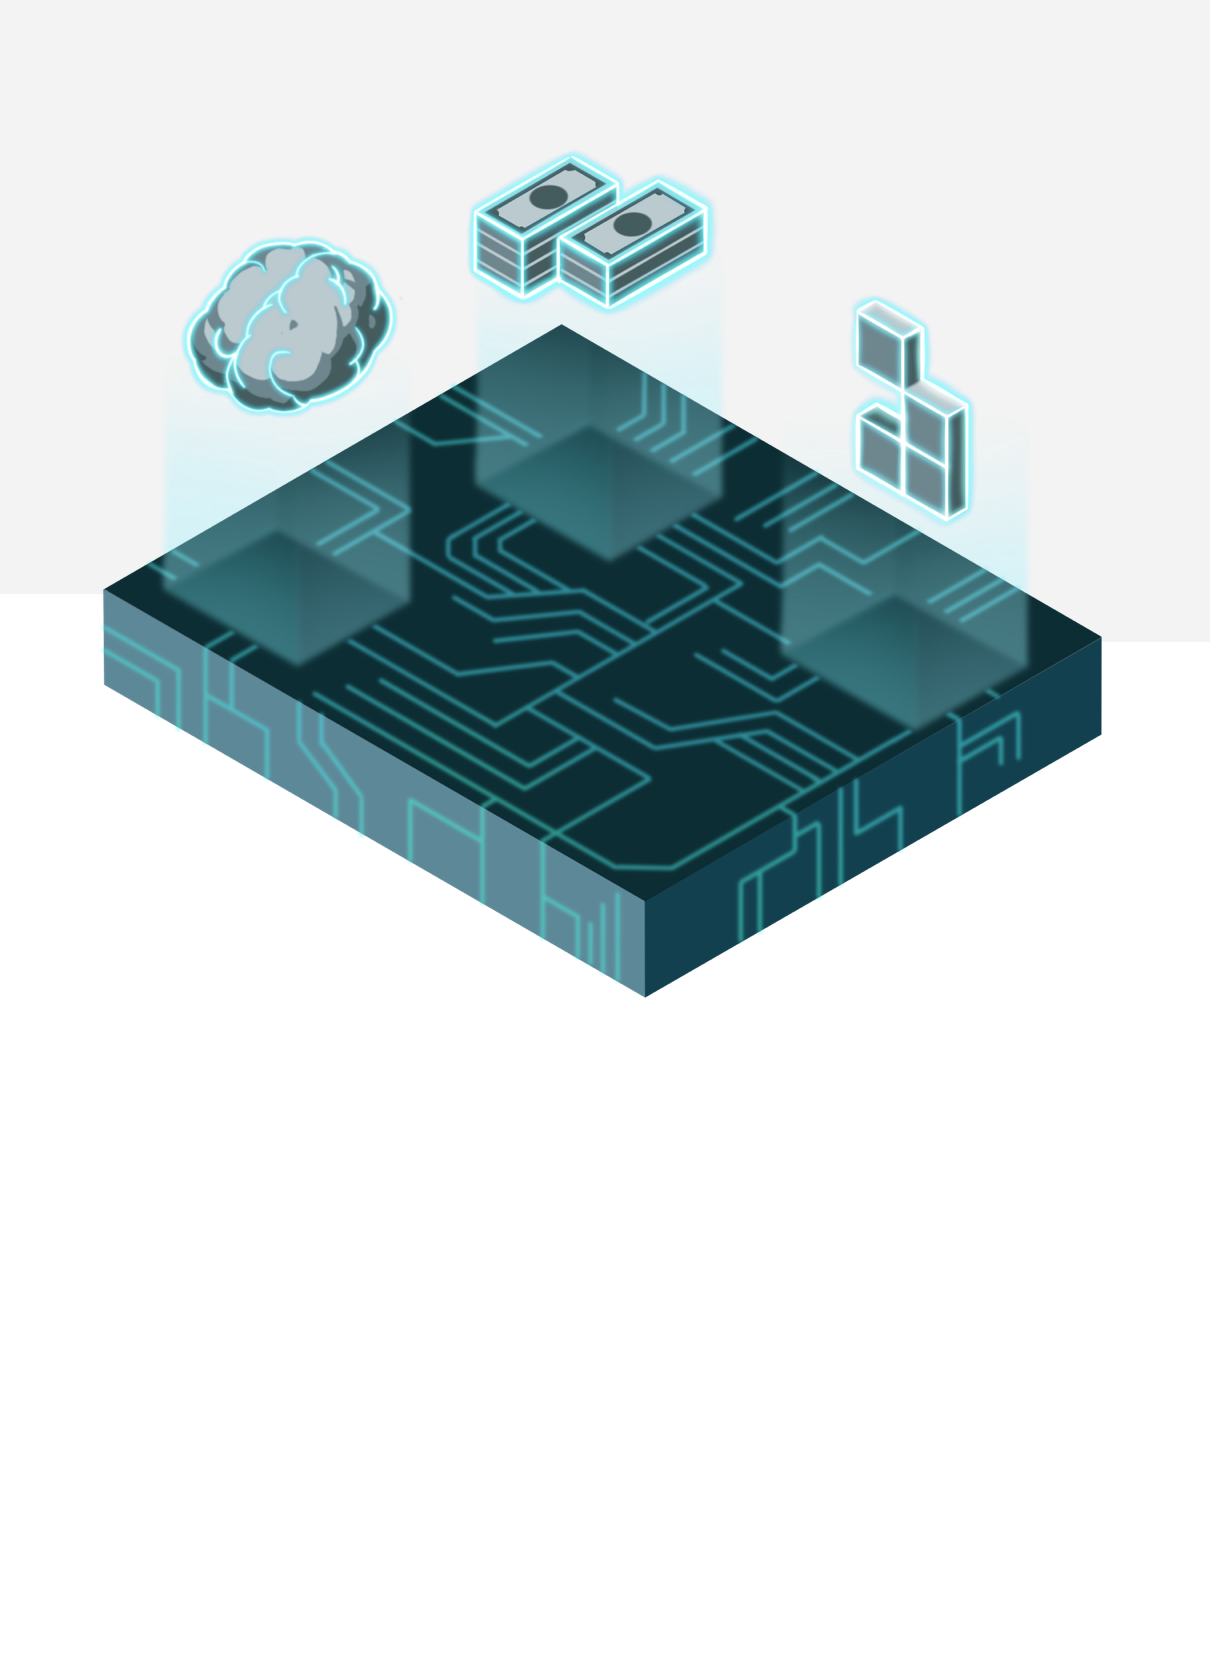
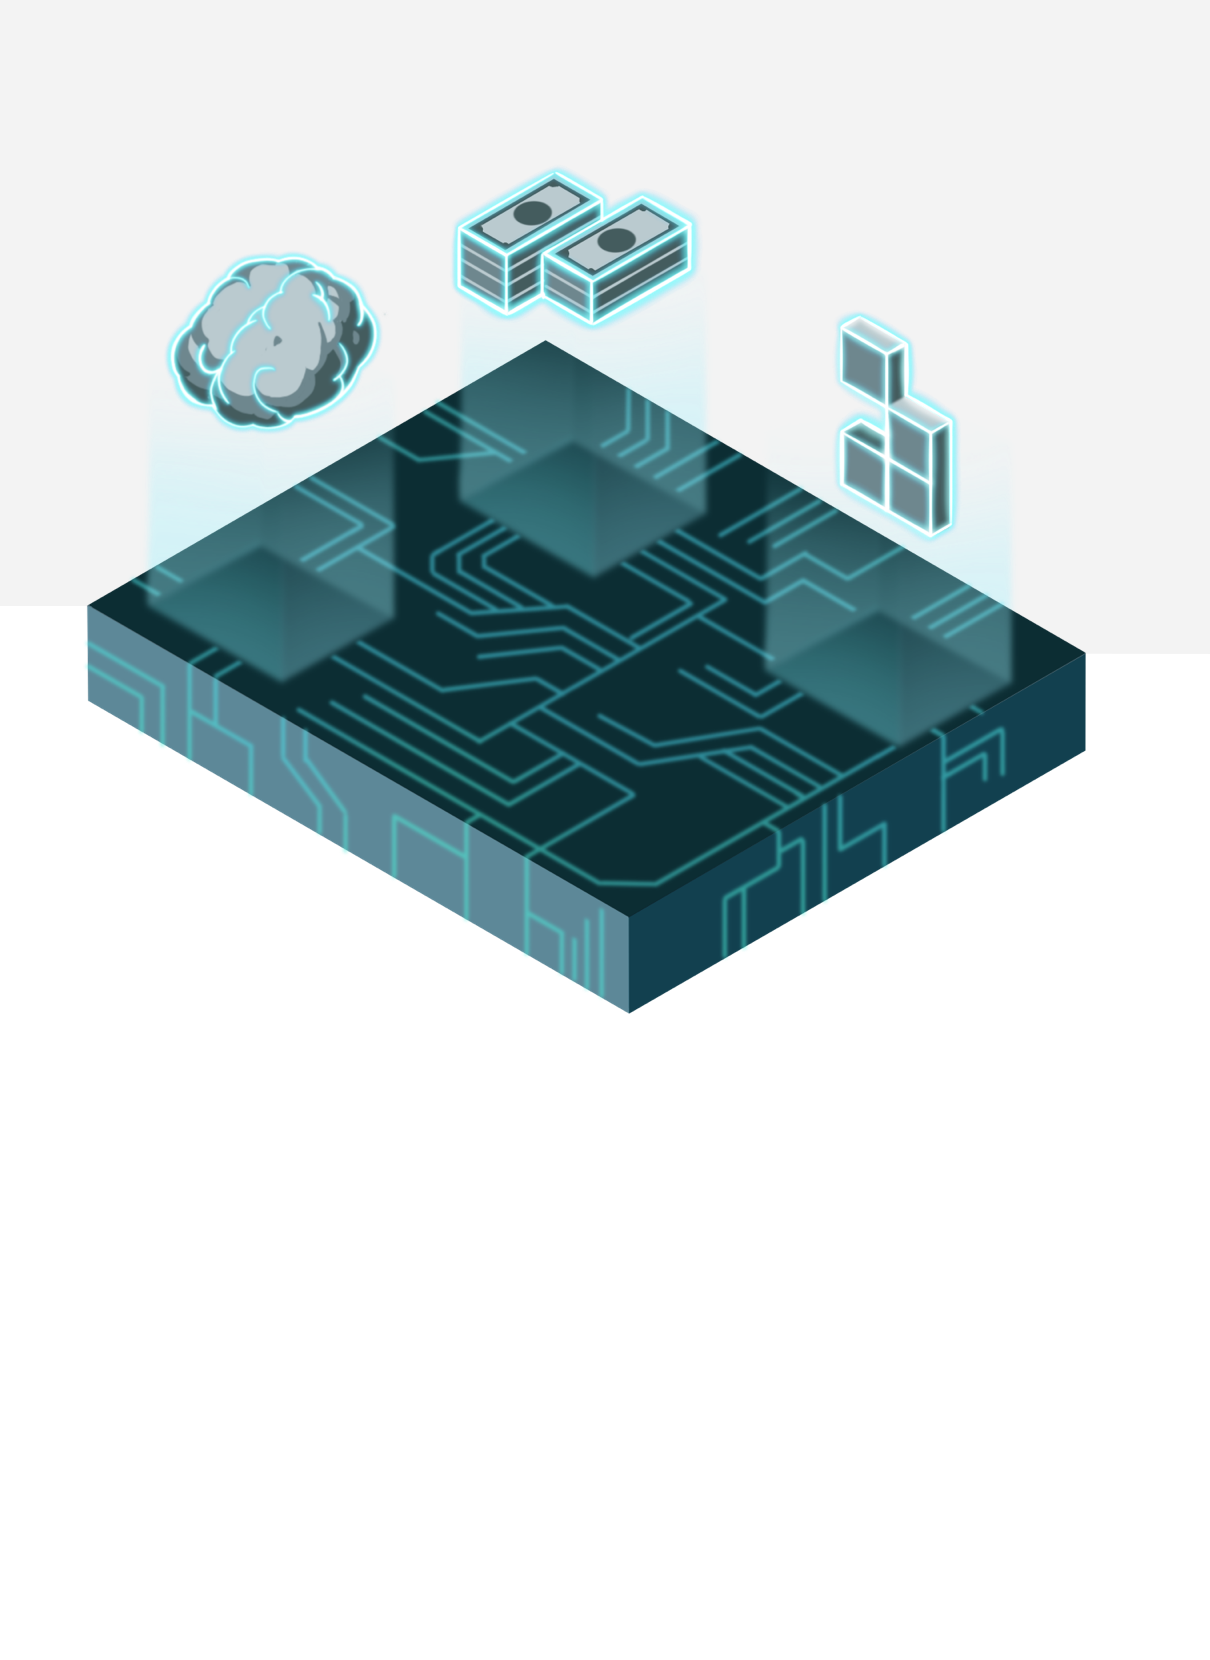
wiiiip

Changed region(s): [[0.0612, 0.0922, 0.9174, 0.6145]]

diff --git a/index.html b/index.html
@@ -58,7 +58,7 @@
       <span class="span-header bg1-2">
         Permitimos que qualquer empresa opere como subadquirente para suas redes, gerando <b>experiências financeiras customizadas</b> em toda sua cadeia.
       </span>
-			<div style="margin-top: 60px;display: flex;" class="bg1-3">
+			<div style="margin-top: 30px;display: flex;" class="bg1-3">
 				<a class="button" href="#" onclick="window.scroll({ top: 850, behavior: 'smooth'})">
 					saiba mais <img src="SMALL/down.png" width="16px" height="16px" style="margin-left: 8px;"/>
 				</a>
@@ -71,12 +71,12 @@
     <div class="right-box">
       <img class="ilustra animation-4" src="./ILUSTRA/ILU_4.png" width="605px" height="830px" style="transform:translate(0, 20px)"/>
       <img class="ilustra animation-3" src="./ILUSTRA/ILU_3.png" width="605px" height="830px" style="transform:translate(0, 20px)"/>
-      <img class="tower t1" src="./ILUSTRA/CAPTURA.png" width="79px" height="108px" style="transform: translate(-189px, -68px);">
-      <img class="tower t2" src="./ILUSTRA/WALLET.png" width="79px" height="108px" style="transform: translate(-109px, -111px);">
-      <img class="tower t3" src="./ILUSTRA/CARDS.png" width="79px" height="108px" style="transform: translate(-24px, -146px);">
-      <img class="tower t4" src="./ILUSTRA/CONCILIAÇÃO.png" width="79px" height="108px" style="transform: translate(12px, 50px);">
-      <img class="tower t5" src="./ILUSTRA/BANKING.png" width="79px" height="108px" style="transform: translate(98px, 2px);">
-      <img class="tower t6" src="./ILUSTRA/FORNECEDORES.png" width="79px" height="108px" style="transform: translate(180px, -45px);">
+      <img class="tower t1" src="./ILUSTRA/CAPTURA.png" width="79px" height="108px"           style="transform: translate(-197px, -74px);">
+      <img class="tower t2" src="./ILUSTRA/WALLET.png" width="79px" height="108px"            style="transform: translate(-115px, -115px);">
+      <img class="tower t3" src="./ILUSTRA/CARDS.png" width="79px" height="108px"             style="transform: translate(-31px, -158px);">
+      <img class="tower t4" src="./ILUSTRA/CONCILIAÇÃO.png" width="79px" height="108px"       style="transform: translate(4px, 55px);">
+      <img class="tower t5" src="./ILUSTRA/BANKING.png" width="79px" height="108px"           style="transform: translate(90px, 2px);">
+      <img class="tower t6" src="./ILUSTRA/FORNECEDORES.png" width="79px" height="108px"      style="transform: translate(171px, -46px);">
       <img class="ilustra animation-2" src="./ILUSTRA/ILU_2.png" width="605px" height="830px" style="transform:translate(0, 20px)"/>
       <img class="ilustra animation-1" src="./ILUSTRA/ILU_1.png" width="605px" height="830px" style="transform:translate(0, 20px)"/>
     </div>
@@ -165,8 +165,8 @@
             <h3>
               FORNECEDORES
             </h3>
-            <span class="dashes">
-              -------------------------------------------------------------
+            <span class="dashes fornecedores">
+              -----------------------------------------
             <span>
           </div>
         </div>
@@ -186,7 +186,7 @@
               CONCILIAÇÃO
             </h3>
             <span class="dashes">
-              -------------------------------------------------------------
+              -------------------------------------------
             <span>
           </div>
           <div class="box6-6">

diff --git a/style.css b/style.css
@@ -221,6 +221,7 @@ header div img {
 .bg-squares-2 {
   background-image: url("./L2_BLUE.png");
   padding-left: 50px;
+  padding-top: 160px;
 }
 .bg-squares-2 > * {
   opacity: 0;
@@ -286,7 +287,7 @@ header div img {
   transition: all 0.2s ease-out;
 }
 .bg-squares-3 h2{
-  margin-top: 277px;
+  margin-top: 200px;
   margin-bottom: 30px;
 }
 
@@ -313,8 +314,8 @@ header div img {
 }
 .six-texts > div > div > div {
   margin: 0 60px;
-  min-width: 130px;
-  max-width: 130px;
+  min-width: 100px;
+  max-width: 100px;
   font-size: 14px;
   line-height: 1.21;
   color: #6f97aa;
@@ -325,7 +326,8 @@ header div img {
   font-family: MilliardBold;
   font-weight: bold;
   line-height: 1.08;
-  margin: 7px 0;
+  margin-top: 7px;
+  margin-bottom: 0px;
 }
 .six-texts > div > div > div > span {
   font-style: italic;
@@ -338,6 +340,10 @@ header div img {
   background-color: #8dabba40;
   font-size: 5px;
   color: transparent;
+  margin-left: 15px;
+}
+.dashes.fornecedores {
+  margin-left: 30px;
 }
 
 

diff --git a/main.js b/main.js
@@ -54,20 +54,20 @@ const towers = [
 // })
 
 const towersInitialXY = [
-  { x: -189, y: -68, },
-  { x: -109, y: -111, },
-  { x: -24, y: -146, },
-  { x: 12, y: 50, },
-  { x: 98, y: 2, },
-  { x: 180, y: -45, },
+  { x: -197, y: -74, },
+  { x: -115, y: -115, },
+  { x: -31, y: -158, },
+  { x: 4, y: 55, },
+  { x: 90, y: 2, },
+  { x: 171, y: -46, },
 ]
 const towerMiddleXY = [
-  { x: -247, y: -137, },
-  { x: -252, y: -324, },
+  { x: -220, y: -149, },
+  { x: -222, y: -324, },
   { x: -5, y: -318, },
   { x: -5, y: -137, },
-  { x: 250, y: -137, },
-  { x: 250, y: -324, },
+  { x: 220, y: -137, },
+  { x: 220, y: -324, },
 ]
 
 const startY = 55
@@ -292,7 +292,7 @@ function animateTowers (t1, t2, t3, t4) {
     }
     if (t2 <= 1) {
       tower.style.transform = `translate(${
-        lerp(x, x2, t2 - ((1-t2) * 0.3))
+        lerp(x, x2, t2 - ((1-t2) * 0.5))
       }px, ${
         lerp(250 + y, y2, t2 - ((1-t2) * 0.13))
       }px)`
